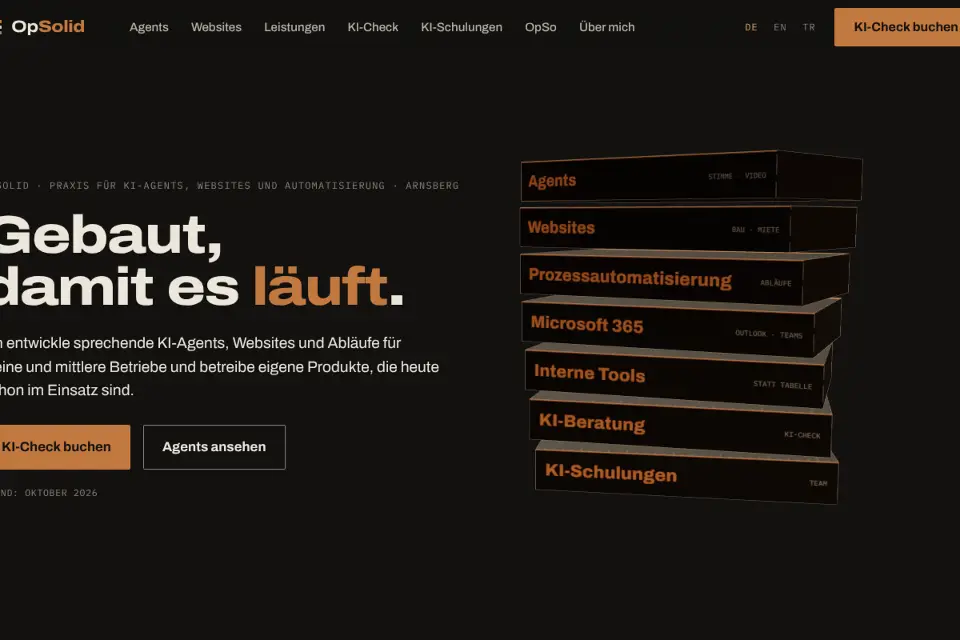
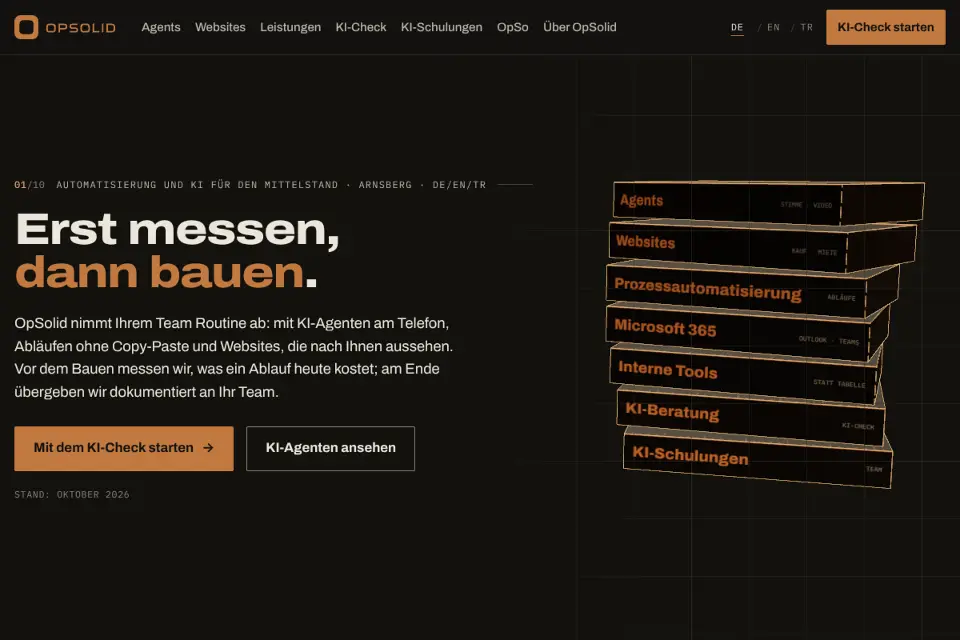
fix(site): object fits beside all visible text, current opsolid.de texture, final notes
- Stage: the free column is computed from every text column on screen (scroll
  and resize), so a wider neighbouring section never ends up under the object
- shot-opsolid.webp re-captured from the current build (3:2, no crop)
- v4-notes: round 3 design and content process, logo, owner questions,
  final verification numbers

Claude-Session: https://claude.ai/code/session_016NN5qr7C4s6pE24d9zYPVg

diff --git a/src/components/v4/Stage.tsx b/src/components/v4/Stage.tsx
@@ -585,11 +585,28 @@ async function createCore(host: HTMLElement, quality: "full" | "light", onFirstF
     if (pick.dim) document.documentElement.setAttribute("data-dim", "1");
     else document.documentElement.removeAttribute("data-dim");
   };
+  // Right edge of the text that is on screen right now (any section, scene or not), so a wider
+  // neighbouring section that is still visible never ends up under the object.
+  let contentEls: HTMLElement[] = [];
+  let visRight = 0;
+  const measureVisible = () => {
+    const vh = window.innerHeight;
+    let r = 0;
+    for (const c of contentEls) {
+      const b = c.getBoundingClientRect();
+      if (b.bottom > 0 && b.top < vh && b.width > 0) r = Math.max(r, b.right);
+    }
+    visRight = r;
+  };
+  const onScrollMeasure = () => measureVisible();
+  window.addEventListener("scroll", onScrollMeasure, { passive: true });
   const remeasure = () => {
     infos = sceneEls.map(measure);
     recompute();
   };
   const setScenes = (els: HTMLElement[]) => {
+    contentEls = Array.from(document.querySelectorAll<HTMLElement>("main .v4-col, main .v4-band-in > *"));
+    measureVisible();
     triggers.forEach((t) => t.kill());
     triggers = [];
     sceneEls = els;
@@ -626,6 +643,7 @@ async function createCore(host: HTMLElement, quality: "full" | "light", onFirstF
     ScrollTrigger.refresh();
   };
   window.addEventListener("resize", remeasure);
+  window.addEventListener("resize", onScrollMeasure);
 
   // ---- render loop
   let running = true;
@@ -733,7 +751,7 @@ async function createCore(host: HTMLElement, quality: "full" | "light", onFirstF
     } else {
       const trA = iA?.textRight ?? vw * 0.45;
       const trB = iB?.textRight ?? trA;
-      const textRight = lerp(trA, trB, u);
+      const textRight = Math.max(lerp(trA, trB, u), visRight);
       const L = textRight + 44;
       const R = vw - 24;
       const wpp = visW / vw;
@@ -826,6 +844,8 @@ async function createCore(host: HTMLElement, quality: "full" | "light", onFirstF
       cancelAnimationFrame(raf);
       window.removeEventListener("resize", resize);
       window.removeEventListener("resize", remeasure);
+      window.removeEventListener("resize", onScrollMeasure);
+      window.removeEventListener("scroll", onScrollMeasure);
       window.removeEventListener("pointermove", onPointer);
       document.removeEventListener("visibilitychange", onVis);
       triggers.forEach((t) => t.kill());

diff --git a/docs/redesign/v4-notes.md b/docs/redesign/v4-notes.md
@@ -12,8 +12,11 @@ Branch `claude/opsolid-v4`, draft PR #43. Not deployed.
   - three.js and GSAP are dynamic imports, started on the first user intent (pointer, scroll, touch, key) or after 8 s. Until then the static poster (inline SVG) is the first frame.
   - No WebGL, `prefers-reduced-motion`, or the footer switch "3D-Effekte: Aus" keep the poster and load no 3D code. The footer switch is the only quality control in production (the Voll/Leicht/Poster bar existed only in the static prototype).
   - Phones and touch devices run a lighter mode (DPR up to 1.5, no reflections, no bloom, no edge lines, 30 fps). Desktop has a frame-time guard that drops bloom for good if frames stay slow.
-- **Pages (DE, EN, TR, content in `src/content/v4/pages-*.ts`):** Start, Agents (new), Websites (new), Leistungen, KI-Beratung, Prozessautomatisierung, Microsoft 365, Interne Tools, KI-Schulungen, KI-Check, Über mich, Kontakt (form), Notizen (blog list and posts). OpSo, Impressum and Datenschutz keep their existing content under the new theme.
-- **Header and mark:** the header is opaque at every scroll position (no content showing through behind the nav). The logo mark is now a single plate of the 3D stack (copper top, ink front and side) instead of three bars, so it can no longer be mistaken for the menu button.
+- **Pages (DE, EN, TR, content in `src/content/v4/pages-*.ts`):** Start, Agents (new), Websites (new), Leistungen, KI-Beratung, Prozessautomatisierung, Microsoft 365, Interne Tools, KI-Schulungen, KI-Check, Über OpSolid, Kontakt (form), Notizen (blog list and posts). OpSo, Impressum and Datenschutz keep their existing content under the new theme.
+- **Design pass (round 3, owner request "nothing ordinary"):** an independent design audit (benchmarked against Awwwards/CSSDA-level work) found the sections monotonous (same column, same slide), a weak H1/H2 hierarchy and template-grade lists, tables, FAQ and footer. Implemented: chapter numbers and rules on every section, top-aligned rhythm, layout variants per block type (index rows with arrows and drawn hover rule, ledger rows, narrow timeline steps, essay text), price table as a rate card with the VAT note under the figures, FAQ as a numbered accordion, steps as a drawn timeline, crop marks on wide panels, a visible drafting grid, the CTA band as a display-size finale, a drafting title-block footer, a scroll-progress hairline in the header, joined full-bleed text panels on phones with "FIG." labels on the 3D windows. Inner pages got their own 3D scenes (rows, steps) so the object keeps telling the story instead of holding one pose; the stage fits the object beside all text that is on screen.
+- **Content process (round 3):** one agent wrote the copy (DE source, then EN and TR transcreation), a separate agent audited it independently before and after. Each page now has one specific promise and a problem → approach → proof → offer → next step arc. Prices for the fixed-format offers stay visible with "Alle Preise netto, zzgl. MwSt." (as on the previous site); custom work is priced after the first conversation.
+- **Logo:** the official OpSolid lockup (copper rounded-square mark + OPSOLID wordmark, `public/icons/logo with name dark.png`) is used as an inline vector (`src/components/v4/Logo.tsx`, traced from the master PNG) in the header, the menu sheet and the footer. No new logo was designed; an earlier iteration of this branch had wrongly used its own mark.
+- **Header and mark:** the header is opaque at every scroll position (no content showing through behind the nav).
 - **Layout guards in the repo:** `npm run audit:stage` (Playwright, needs a running server, `BASE=...`) asserts per scene that the 3D object does not intersect any heading, paragraph, list item, table, link, button or form control at 1280, 1440, 1920 and 390 px (desktop: no exemption, phones: opaque panels exempt), plus horizontal scroll and console errors. `npm run audit:headings` checks that no h1/h2 needs a mid-word break in de/en/tr at 360–1920 px. Long German compounds get soft hyphens at known stems (`src/lib/soft-hyphen.ts`).
 - **Scripted agent demo:** typed sample dialogue plus a wave, and an abstract voice-reactive form in 3D (particle sphere that swells with the same amplitude, glowing core, three rings; no face, eyes or mouth). Labelled "Demo · Szenario, ohne Ton", with the data-protection note. No audio, no microphone, no provider. A live voice demo needs a provider and a data-protection review first.
 - **Voice (owner decision, 2026-10-16):** professional company voice (OpSolid / wir / we / biz), focused on what the work changes for the client's business. Team size is not a topic: all "allein", "Einzelpraxis", "one-person", "tek başıma" phrasing was removed, and no team size is implied. Experience is shown through real background (IT project management, digitalisation, process optimisation), the method and real work (opsolid.de, OpSo as a product in its test phase, Kutasia as a project in development, not a product). No invented numbers, clients, testimonials or certifications. The about page is now "Über OpSolid" (route `/ueber-mich` unchanged).
@@ -37,24 +40,27 @@ Branch `claude/opsolid-v4`, draft PR #43. Not deployed.
 
 ## Needs owner confirmation
 
-1. Websites: sale/rental terms and prices are not in the repo. The text says the terms are agreed in a conversation.
-2. The sample dialogue in the agent demo is invented and labelled as a scripted run.
-3. KI-Check (price on request, 30-day plan) and KI-Quick-Check (from 490 €, short report) overlap; may need merging.
-4. Trainings: the KI-Quick-Check is run by OpSolid; KI-Kompetenz Basis by a freelance specialist trainer selected by OpSolid and named in advance. Please confirm. The Copilot day is now spelled "Copilot-Praxistag" (was "Copilot Praxis-Tag"), also in structured data.
-5. Experience is stated only through facts from the earlier About page (practical background in IT project management, digitalisation and process optimisation). Real numbers (years, sectors, projects) can be added if the owner provides them. No photo yet.
-6. Screenshots on the 3D planes: opsolid.de, OpSo (card.opsolid.de landing, fictional demo profiles), Kutasia (kutasia.com, Turkish UI, demo dashboard). OK to show publicly?
-7. Legacy pages still reachable outside the v4 navigation: `/products` ("Neun Produkte", Kutasia with a price) and `/products/kutasia` describe Kutasia as a product. They are now `noindex` and out of the sitemap; recommended next step is a 301 to `/leistungen` (needs a change to `scripts/tests/redirects.test.mts`, which pins `/products/kutasia` as a working route). `/products/digital-card/gallery` says "go live in minutes" for OpSo.
-8. The about route is still `/ueber-mich` ("about me") for link stability; a move to `/ueber-uns` with a 301 is a small follow-up if wanted.
-9. Kept from earlier copy: the "500 Euro im Monat" platform comparison on Interne Tools; KVKK named for projects connected to Türkiye; TR buttons now in siz-form ("YZ kontrolü planlayın").
+1. **Prices and VAT:** fixed-format offers show prices with "Alle Preise netto, zzgl. MwSt." and "Die Angebote richten sich ausschließlich an Unternehmen." (taken from the previous site's VAT note). Please confirm OpSolid charges VAT (not Kleinunternehmer under § 19 UStG) and that the offers are B2B only.
+2. **Logo:** the vector is a trace of the master PNG; please sign it off. The favicon (`src/app/icon.svg`) has a slightly different inner square than the lockup.
+3. **Agents:** voice agents and video agents with a 3D figure are offered; the live demo follows after the data-protection review. The sample dialogue is invented and labelled as a scripted run.
+4. **New statements to confirm:** results are re-measured after each pilot; pilot durations are stated as target ranges (2–4 weeks Prozess / KI-Beratung, about 2 weeks for a first Microsoft 365 flow, 3–6 weeks Interne Tools); the KI-Kompetenz Basis trainer is a freelance specialist selected by OpSolid and named in advance; website prices are given in writing after the first call; rent is a running fee; OpSo's dashboard, onboarding and admin console were built by OpSolid.
+5. **KI-Check vs KI-Quick-Check:** now explained side by side (FAQ on the check page); the header button reads "KI-Check starten" instead of "buchen". Who leads the Copilot-Praxistag is not stated yet.
+6. **Websites:** sale/rental prices are not in the repo; terms are agreed in writing after the first call.
+7. **Screenshots on the 3D windows:** opsolid.de (current build), OpSo (card.opsolid.de landing, fictional demo profiles), Kutasia (kutasia.com, Turkish UI, demo dashboard; a German UI shot would fit the DE pages better).
+8. **Legacy pages** still reachable outside the v4 navigation: `/products` ("Neun Produkte", Kutasia with a price) and `/products/kutasia` describe Kutasia as a product. Now `noindex` and out of the sitemap; recommended next step is a 301 to `/leistungen` (needs a change to `scripts/tests/redirects.test.mts`, which pins `/products/kutasia` as a working route). `/products/digital-card/gallery` says "go live in minutes" for OpSo.
+9. **About route** is still `/ueber-mich` ("about me"); a move to `/ueber-uns` with a 301 is a small follow-up.
+10. Experience is stated only through facts from the earlier About page; real numbers (years, sectors, projects) can be added if provided. No photo yet.
 
-## Verification (sandbox, 2026-10-16)
+## Verification (sandbox, 2026-10-17, final build of round 3)
 
-- Clean install and gate: `npm ci`, `npm run lint`, `npx tsc --noEmit`, `npm run predeploy` (audit:cards + build), `npx tsx --test scripts/tests/redirects.test.mts` (3 of 3): all pass.
-- Overlap audit (Playwright + `?debug` hook; for every scene section of every marketing page the projected object box is compared with the rectangle of every visible text element not on an opaque panel). Final build: the 13 pages that have a 3D stage at 1440 and 390 px, 6 pages at 1280 and at 1920 px, plus a mid-morph pass at 78 % section progress (1440 and 390, 8 pages) on the previous build. Earlier builds covered 13 pages at each of 1280, 1440 and 1920. No overlaps, no console errors, no horizontal scroll at 1440 or 390 on any page including OpSo, Impressum and Datenschutz (which have no 3D stage). The audit boxes are conservative axis-aligned boxes, so a few pixels of apparent edge contact at the right viewport edge are not real overlap.
-- axe-core (WCAG 2.0/2.1/2.2 A and AA plus best practice), with the 3D stage running (full on desktop, light on mobile), 18 pages (`/de` pages, `/en`, `/tr`) at 1440 and 390 px: 0 violations.
-- Lighthouse 12 mobile, devtools throttling (4x CPU, slow 4G), production build, software WebGL, final build. `/de`: performance 89 (85–89 over five runs), LCP 2.3 s (2.2–2.4 s, text, `p.v4-lede`), TBT 170 ms (170–260 ms), CLS 0.024. `/de/ki-schulungen`: 92, LCP 2.4 s, TBT 100 ms, CLS 0.027. `/de/agents`: 92, LCP 2.2 s, TBT 180 ms, CLS 0.022. Accessibility 100, best practices 100, SEO 100 on all. LCP is within 2.5 s and CLS within 0.1, but with little headroom on `/de` and `/de/ki-schulungen`; the earlier internal target "LCP under 2.0 s lab" is not reached under that throttling. Remaining weight: render-blocking CSS (tailwind about 23 kB gz, tokens, v4) and the preloaded display font (about 89 kB). Not done: purge unused tailwind utilities for marketing routes, subset the display font, inline critical CSS.
-- JS at load (gzip): about 194 kB (Next reports 159 kB first-load for marketing routes), down from about 407 kB. The 3D chunks (three, bloom passes, GSAP ScrollTrigger) add about 210 kB gz after first intent; screenshots add about 79 kB, only on pages that have a Websites / Produkte scene.
-- Limits: all WebGL runs here use software rendering (SwiftShader, a few frames per second), so frame rate, bloom cost and the frame-time guard are not measured, and no real GPU, phone or field data was available. Lighthouse in this sandbox does not interact with the page, so the 3D core (which starts on first intent or after 8 s) is largely outside the measured window; interactive cost of the 3D is therefore not in these numbers.
+- `npm ci`, `npm run lint`, `npx tsc --noEmit`, `npm run predeploy` (audit:cards + build), `npx tsx --test scripts/tests/redirects.test.mts` (8 of 8: retired routes plus country routing): all pass.
+- Country routing checked end to end with curl on the production build: geo header TR → `/tr`, DE/AT/CH → `/de`, US → `/en`, no country → `/de`, `Accept-Language: tr` with country DE → `/de`, cookie `en` beats country DE, in-app lookup over loopback (8.8.8.8 → US → `/en`), `/de` `/en` `/tr` answer 200, retired `/solutions` → 301 `/de/products`; detection sets no locale cookie.
+- `npm run audit:headings` (de/en/tr × 360, 390, 768, 1280, 1440, 1920 px × 13 pages): no heading needs a mid-word break.
+- `npm run audit:stage` (every section of the 13 staged pages, object box vs every visible heading, paragraph, list item, table, link, button and form control; desktop strict, phones with opaque panels): 1280, 1440, 1920 and 390 px all clear, no console errors, no horizontal scroll. OpSo, Impressum and Datenschutz (no 3D) have no horizontal scroll at 1440 or 390.
+- axe-core (WCAG 2.0/2.1/2.2 A and AA plus best practice), with the 3D stage running, 18 pages (`/de` pages, `/en`, `/tr`) at 1440 and 390 px: 0 violations.
+- Lighthouse 12 mobile, devtools throttling (4x CPU, slow 4G), production build, software WebGL: `/de` performance 91–92, LCP 2.2 s, TBT 110–150 ms, CLS 0.010–0.015; `/de/ki-schulungen` 94, LCP 2.2 s, TBT 100 ms, CLS 0.007; `/de/agents` 91, LCP 2.1 s, TBT 210 ms, CLS 0.065. Accessibility, best practices and SEO 100 on all. LCP ≤ 2.5 s and CLS ≤ 0.1 hold; the internal "LCP under 2.0 s lab" target is still not reached under this throttling.
+- JS at load (gzip): about 194 kB for marketing routes (Next reports about 159 kB first-load); the 3D chunks (three, bloom, GSAP) add about 210 kB after first intent; the three screenshot textures (about 85 kB) load only on pages with a Websites/Produkte scene.
+- Limits: all WebGL here is software rendering (SwiftShader, a few frames per second), so real frame rate, bloom cost and the frame-time guard are not measured; no real GPU, phone or field data. Lighthouse does not interact with the page, so the 3D core is mostly outside its window.
 
 ## CLAUDE.md
 
